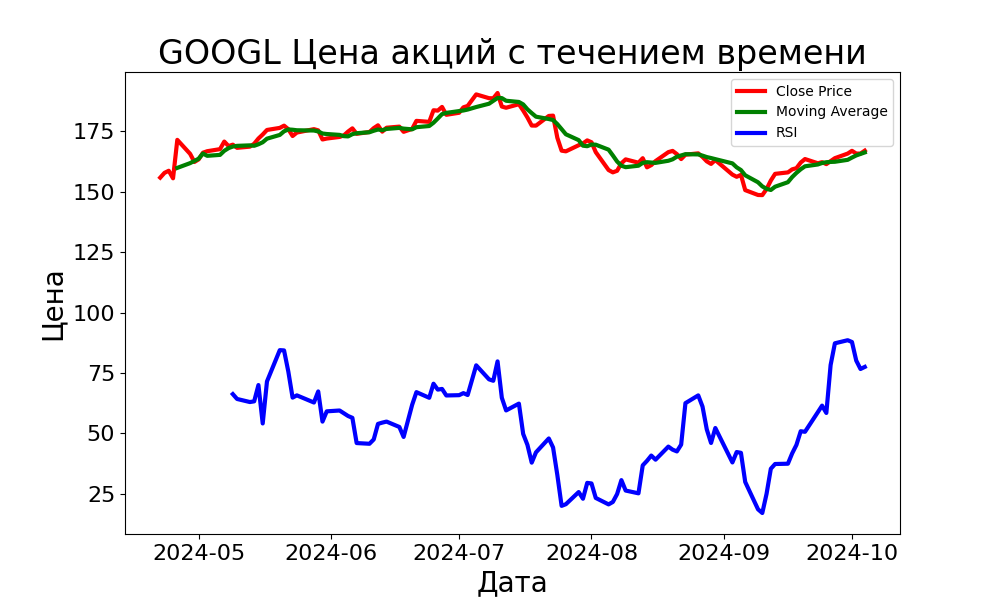
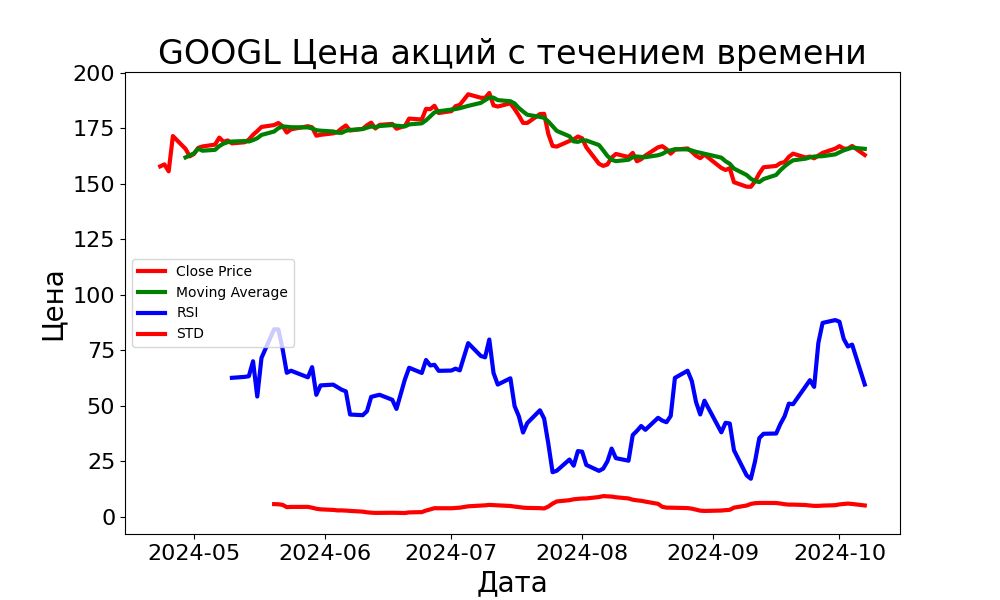
Задача7

diff --git a/data_plotting.py b/data_plotting.py
@@ -5,6 +5,9 @@ import os
 
 
 def create_and_save_plot(data, ticker, period, filename=None, style='default'):
+    '''Функция создаёт график, отображающий цены закрытия, скользящие средние, RSI, STD. Предоставляет возможность
+     сохранения  графика в файл. '''
+
     plt.figure(figsize=(10, 6))
     # Проверяем существование файла стиля
     custom_style_file = f"{style}.mplstyle"
@@ -19,6 +22,7 @@ def create_and_save_plot(data, ticker, period, filename=None, style='default'):
             plt.plot(dates, data['Close'].values, label='Close Price')
             plt.plot(dates, data['Moving_Average'].values, label='Moving Average')
             plt.plot(dates, data['RSI'].values, label='RSI')
+            plt.plot(dates, data['STD'].values, label='STD')
         else:
             print("Информация о дате отсутствует или не имеет распознаваемого формата.")
             return
@@ -28,6 +32,7 @@ def create_and_save_plot(data, ticker, period, filename=None, style='default'):
         plt.plot(data['Date'], data['Close'], label='Close Price')
         plt.plot(data['Date'], data['Moving_Average'], label='Moving Average')
         plt.plot(data['Date'], data['RSI'], label='RSI')
+        plt.plot(data['Date'], data['STD'], label='STD')
 
     plt.title(f"{ticker} Цена акций с течением времени")
     plt.xlabel("Дата")

diff --git a/data_download.py b/data_download.py
@@ -51,3 +51,10 @@ def add_technical_indicators(data):
     rsi = 100 - (100 / (1 + rs))
     data['RSI'] = rsi
     return data
+
+
+def calculate_std(data, window_size=20):
+    '''Функция добавляет статистический индикатор - стандартное отклонение цены закрытия.'''
+
+    data['STD'] = data['Close'].rolling(window=window_size).std()
+    return data

diff --git a/main.py b/main.py
@@ -55,6 +55,8 @@ def main():
 
     dd.add_technical_indicators(stock_data)
 
+    dd.calculate_std(stock_data)
+
     dplt.create_and_save_plot(stock_data, ticker, period_input)
 
     # Использование собственного стиля
